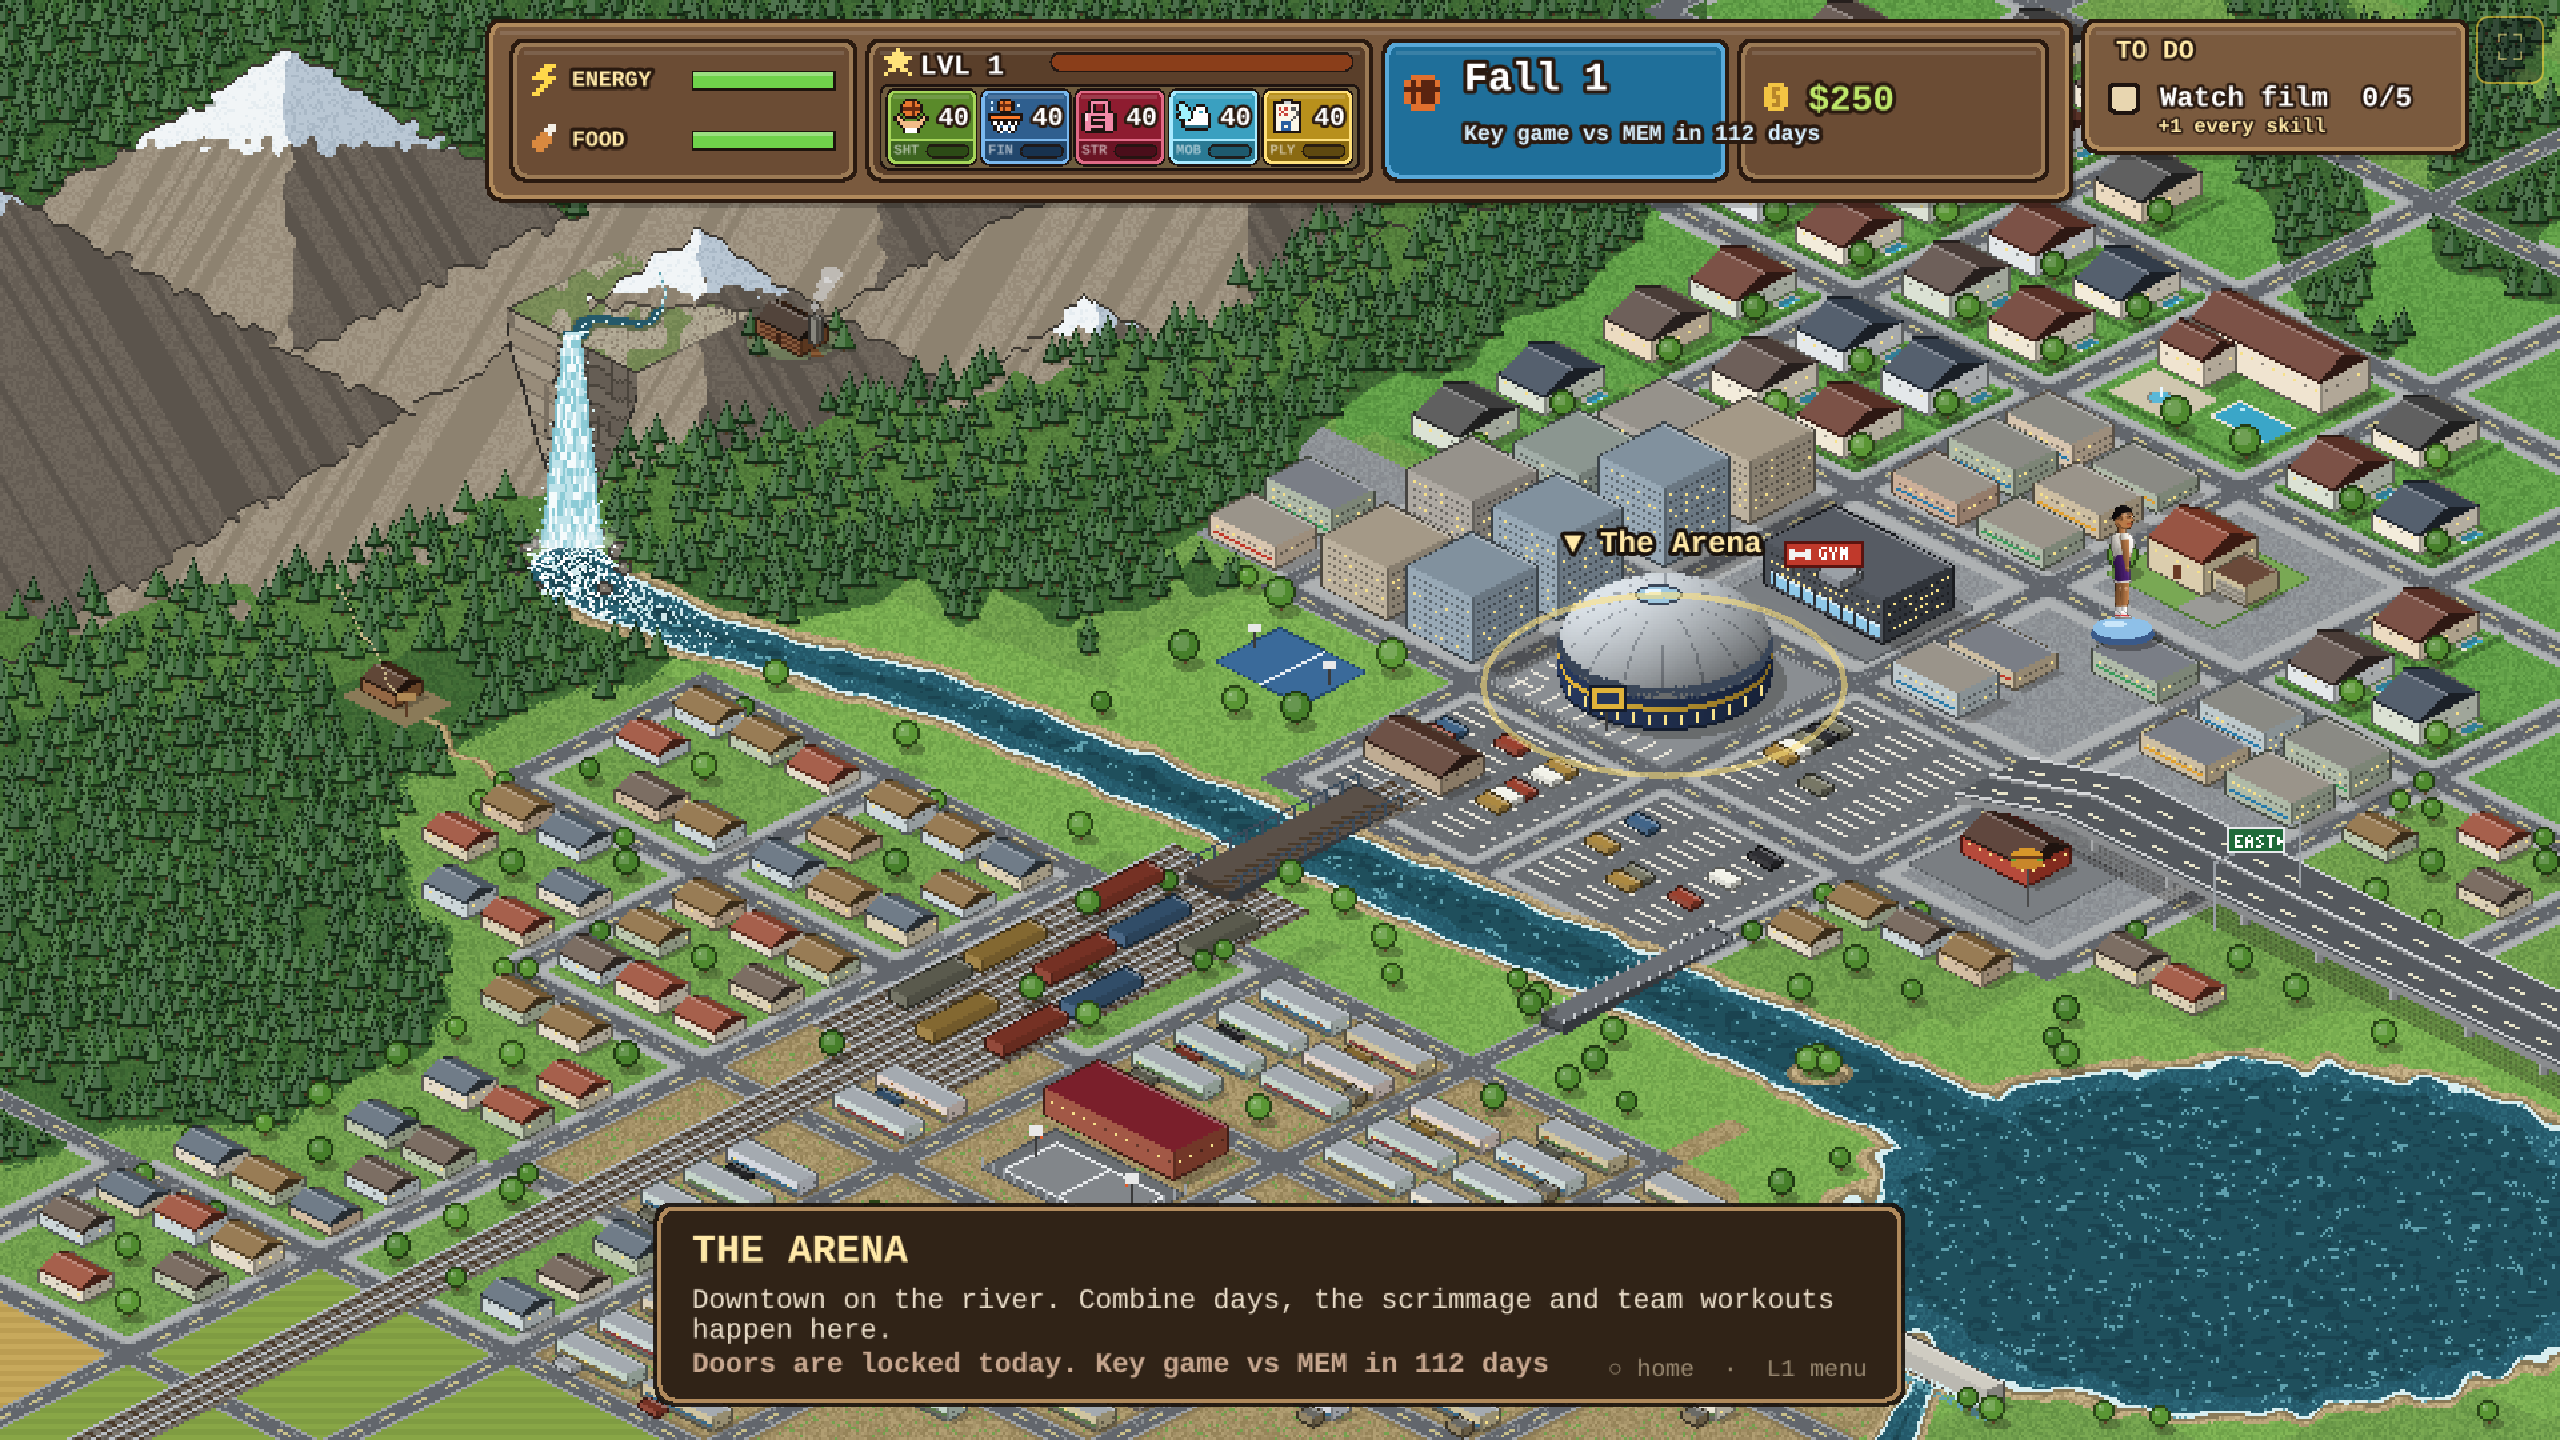
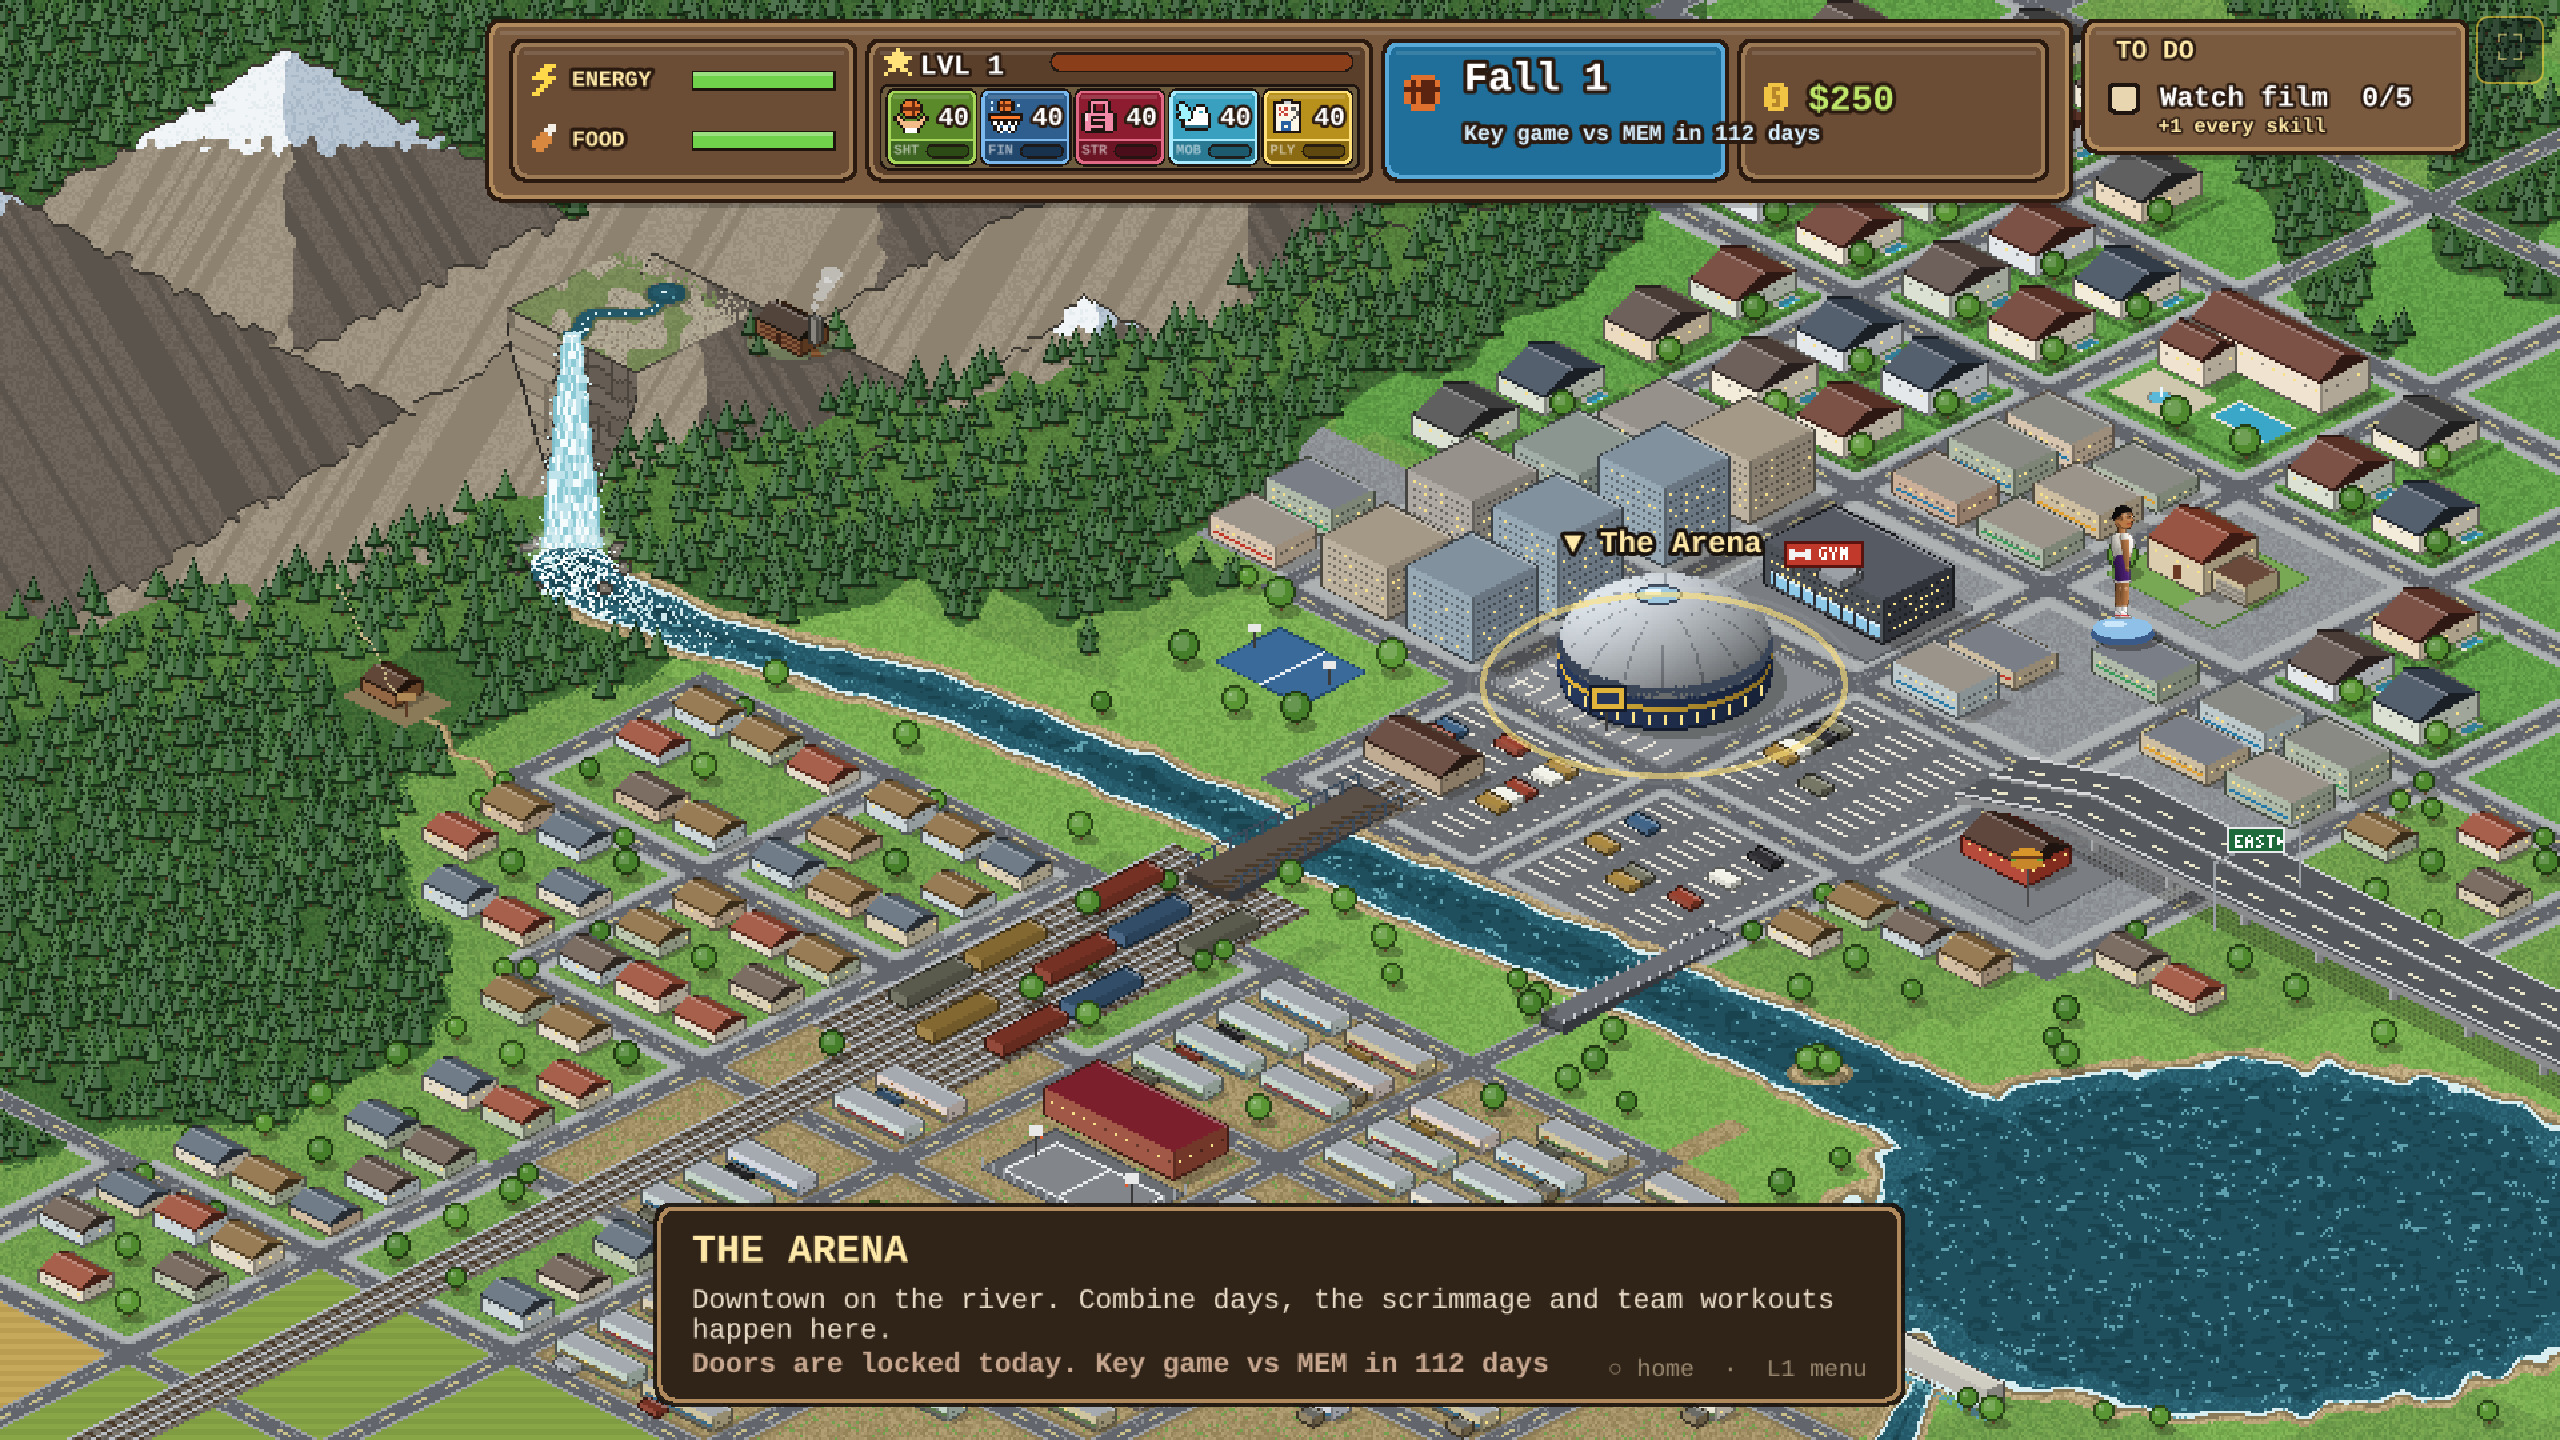
Round 104: flatten the peak on the plateau
The small snowy peak behind the waterfall's shelf is cut off flat along the shelf's back edge, so the
plateau is flat with a straight ridge behind it; the creek now rises from a spring pool on the shelf.

Claude-Session: https://claude.ai/code/session_01CcgHT1pqBqfrX5GZbFhXLS

Changed region(s): [[0.1875, 0.1562, 0.3125, 0.4062], [0.3125, 0.2188, 0.375, 0.2812]]

diff --git a/src/render/cityArt.ts b/src/render/cityArt.ts
@@ -51,16 +51,13 @@ const LIP = { x: 214, y: 127, w: 3.2 };
  * slope; under the rim a sheer cliff hangs down to the plunge pool, tallest behind the falls, tapering into the flank.
  */
 const SHELF = { f0: { x: 190, y: 115 }, f1: { x: 238, y: 139 }, back: { x: 48, y: -24 } }; // round 103: deeper (was 28, -14)
-/** Round 103: the small snowy peak the shelf runs back to: its summit stays standing on the shelf. */
-let SHELF_PEAK = -1;
-/** Is this pixel the peak's summit (snowcap and the rock just under it), in front of the shelf? */
-function peakOnShelf(x: number, y: number): boolean {
-  if (SHELF_PEAK < 0) SHELF_PEAK = PEAKS.findIndex((q) => q.x === 262 && q.y === 86);
-  const p = PEAKS[SHELF_PEAK];
-  return peakAt(x, y) === SHELF_PEAK && y < p.y + p.snow + 6 + (vnoise(x, 0, 5, 89) - 0.5) * 4;
-}
-/** Where the creek starts on the shelf (fed by the trickle off the peak's snow above it). */
-const CREEK_SRC = { x: 248, y: 116 };
+/**
+ * Round 104 (owner: "flatten the peak on the plateau, no snowy peak"): the small peak behind the shelf is cut off
+ * flat along the shelf's back edge (continued across its width): a mesa whose top is the plateau.
+ */
+const mesaY = (x: number) => SHELF.f0.y + SHELF.back.y + (x - SHELF.f0.x - SHELF.back.x) / 2;
+/** Where the creek starts: a little spring pool at the back of the shelf. */
+const CREEK_SRC = { x: 250, y: 110 };
 /** The rim (the cliff's top edge) at x, art px. */
 const rimY = (x: number) => SHELF.f0.y + (x - SHELF.f0.x) / 2;
 /** How far the cliff hangs below the rim at x (full height behind the falls, a short step at its ends). */
@@ -141,7 +138,7 @@ const PEAKS = [
   { x: 330, y: 22, s: 0.5, snow: 16 }, { x: 470, y: 30, s: 0.55, snow: 12 }, { x: 600, y: 8, s: 0.6, snow: 14 },
   { x: -24, y: 58, s: 0.55, snow: 18 },
   { x: 108, y: 18, s: 0.6, snow: 36 },
-  { x: 262, y: 86, s: 0.62, snow: 22 },
+  { x: 262, y: 86, s: 0.62, snow: 0, mesa: true }, // round 104: cut flat at the plateau (was snow 22)
   { x: 410, y: 110, s: 0.7, snow: 12 },
   { x: 520, y: 80, s: 0.95, snow: 0 },
 ];
@@ -152,7 +149,7 @@ function peakAt(x: number, y: number): number {
   let best = -1, by = -Infinity;
   for (let i = 0; i < PEAKS.length; i++) {
     const p = PEAKS[i], jag = (vnoise(x, y, 5, 20 + i) - 0.5) * 7;
-    if (y >= p.y + Math.abs(x - p.x) * p.s + jag && p.y > by) { best = i; by = p.y; }
+    if (y >= p.y + Math.abs(x - p.x) * p.s + jag && p.y > by && !('mesa' in p && y < mesaY(x))) { best = i; by = p.y; }
   }
   return best;
 }
@@ -572,8 +569,7 @@ function paintShelf(c: C) {
   // the shelf's flat top: weathered pale rock and alpine grass, no gully streaks (it reads level)
   const xs = [f0.x, f1.x, f0.x + back.x, f1.x + back.x], ys = [f0.y, f1.y, f0.y + back.y, f1.y + back.y];
   for (let y = Math.min(...ys); y <= Math.max(...ys); y++) for (let x = Math.min(...xs); x <= Math.max(...xs); x++) {
-    if (!onShelf(x, y) || peakOnShelf(x, y)) continue;
-    if (peakOnShelf(x, y - 1)) { P(c, x, y, '#4a443c'); continue; } // a dark seam where the peak meets the flat top
+    if (!onShelf(x, y)) continue;
     const n = hn(x, y, 97), g = vnoise(x, y, 7, 98), bk = shelfBack(x, y);
     if (bk > 0.75 && hn(x, y, 90) < (bk - 0.75) * 4) continue; // the back rows dither into the slope
     P(c, x, y, g > 0.55 ? (n < 0.5 ? '#7d8f5a' : '#728552') : n < 0.15 ? '#8d8270' : n < 0.6 ? '#a8a08c' : '#b3ab96');
@@ -584,20 +580,27 @@ function paintShelf(c: C) {
   for (let k = 0; k <= 48; k++) {
     const t = k / 48, l = { x: f0.x + back.x * t, y: f0.y + back.y * t }, r = { x: f1.x + back.x * t, y: f1.y + back.y * t };
     c.globalAlpha = Math.max(0, 1 - t * 1.4);
-    if (!peakOnShelf(Math.round(l.x), Math.round(l.y))) P(c, Math.round(l.x), Math.round(l.y), COL.rockOL);
-    if (!peakOnShelf(Math.round(r.x), Math.round(r.y))) P(c, Math.round(r.x), Math.round(r.y), COL.rockOL);
+    P(c, Math.round(l.x), Math.round(l.y), COL.rockOL); P(c, Math.round(r.x), Math.round(r.y), COL.rockOL);
   }
   c.globalAlpha = 1;
   // the melt off the snow above: a thin broken cascade down to the back of the shelf
-  for (let y = CREEK_SRC.y - 14; y < CREEK_SRC.y; y++) { const x = CREEK_SRC.x + Math.round(Math.sin(y / 2.4) * 0.8); P(c, x, y, y % 3 ? '#d8eef0' : COL.glint); }
   // the creek across the shelf: banks first, then the water, widening to the lip
-  const path = creekPath();
+  const path = creekPath(), sp = CREEK_SRC;
+  fillEllipse(c, sp.x, sp.y + 0.5, 9, 4.8, '#5f6a4a'); // the spring's bank (its water goes on after the creek)
   for (const p of path) fillEllipse(c, p.x, p.y + 0.5, p.w + 1.6, (p.w + 1.6) / 2 + 0.4, '#5f6a4a');
   for (const p of path) fillEllipse(c, p.x, p.y, p.w + 0.4, (p.w + 0.4) / 2 + 0.3, COL.water[1]);
   path.forEach((p, k) => {
     if (k % 7 === 0) P(c, Math.round(p.x - 0.5), Math.round(p.y), '#d8eef0');
     if (k > 66) P(c, Math.round(p.x + (hn(k, 0, 99) - 0.5) * p.w * 1.6), Math.round(p.y), hn(k, 1, 99) < 0.5 ? '#f4fbfc' : '#bfe3ea'); // white water at the lip
   });
+  // round 104: the spring the creek rises from: a little pool with a ring of stones and a ripple
+  fillEllipse(c, sp.x, sp.y, 7.5, 3.8, COL.water[0]); fillEllipse(c, sp.x - 1, sp.y - 0.5, 5, 2.2, COL.water[1]);
+  P(c, sp.x - 2, sp.y - 1, '#d8eef0'); P(c, sp.x - 1, sp.y - 1, '#d8eef0'); P(c, sp.x + 2, sp.y + 1, COL.glint);
+  for (let k = 0; k < 7; k++) {
+    if (k === 4) continue; // the outlet
+    const a = Math.PI * (0.15 + k * 0.27), x = Math.round(sp.x + Math.cos(a) * 9), y = Math.round(sp.y - 0.5 - Math.sin(a) * 4.6);
+    P(c, x, y, '#8d8270'); P(c, x + 1, y, '#6e665c');
+  }
 }
 
 // ---------------------------------------------------------------- buildings + trees
@@ -1157,7 +1160,7 @@ export function drawCityCanvas(): HTMLCanvasElement {
   return cv;
 }
 
-export const CITY_BG = 'city_bg_v10';
+export const CITY_BG = 'city_bg_v11';
 /** Where each baked sprite sits on the map (art px), kept with the textures. */
 const OFFSETS = new Map<string, { x: number; y: number }>();
 /** The map's textures (built once, kept across visits): the background, one per place, the falls (3 frames). */
@@ -1169,12 +1172,12 @@ export function buildCityArt(tm: Phaser.Textures.TextureManager): { places: Reco
   }
   const places = {} as Record<PlaceId, { key: string; x: number; y: number }>;
   for (const p of PLACES) {
-    const key = `city_${p.id}_v10`;
+    const key = `city_${p.id}_v11`;
     // round 98: the places are part of the background now; this sprite only gives the scene its bounds (the name tag)
     if (!tm.exists(key) || !OFFSETS.has(key)) { const b = bake(tm, key, 1, (c) => { PLACE_ART[p.id](c, 'ground'); PLACE_ART[p.id](c, 'raised'); }); OFFSETS.set(key, { x: b.x, y: b.y }); }
     places[p.id] = { key, ...OFFSETS.get(key)! };
   }
-  const fk = 'city_falls_v10';
+  const fk = 'city_falls_v11';
   if (!tm.exists(fk) || !OFFSETS.has(fk)) { const b = bake(tm, fk, 3, drawFalls); OFFSETS.set(fk, { x: b.x, y: b.y }); }
   const falls = { key: fk, ...OFFSETS.get(fk)! };
   return { places, falls };

diff --git a/docs/HISTORY.md b/docs/HISTORY.md
@@ -134,6 +134,7 @@ committed, pushed to `main`, and the browser link republished.
 | 101 | `181b927` | You could walk around (and Esc / ✕ worked) with the TV's film list or report open; TV options ran out of the box | `AgentTalk` keeps the room busy for what a last choice opens; `StoryBox` scrolls long choice lists (▲ / ▼, count) |
 | 102 | `c5d10bc` | The creek was a flat line drawn down the angular mountain | A flat shelf the creek crosses, a sheer cliff under its rim the falls drop off (`SHELF`, `paintShelf`); textures `_v9` |
 | 103 | `09a6a83` | The plateau was only a thin ledge | `SHELF.back` deeper, the small peak stands on it (`peakOnShelf`), creek from `CREEK_SRC`; textures `_v10` |
+| 104 | `pending` | A snowy peak stood on the plateau | The peak is cut flat at the shelf's back edge (`mesaY`), no snow; a spring pool feeds the creek; textures `_v11` |
 | 97 | `cfb3c97` | Roads that go nowhere: cut them off (owner's drawing), get rid of that kind of road; a trail from the trailhead to the street | `cityArt.ts` `roadKept` / `builtBlock` (memoized), cut streets painted as their surroundings, sidewalks only along kept streets, no park paths, `trail` / `paintTrail`, textures `_v4` |
 | 96 | `75e404f` | The top two's designs from two pictures should always be how they look (hair colour, wristbands, everything) | `draftClass.TOP_LOOKS` full `Appearance`s, `prospectLook` returns them pinned; round 88 test checks every save |
 | 95 | `a7bb108` | Cabin further up the mountain; houses in forest terrain; water under the waterfall joining the river; buildings showing under the arena / burger / gym lots; no floating selected building | `cityArt.ts`: `PLACE_LOT` footprints in `nearPlace`, `land()` checks `zoneAt` != forest, `paintMountain` and the gorge skip water, bigger pool + river head, lighter mist, cabin ledge; `city.ts` cabin anchor; CityScene no bob |

diff --git a/docs/DECISIONS.md b/docs/DECISIONS.md
@@ -188,6 +188,9 @@ Chronological. "Superseded" marks decisions later changed by the owner.
   - Draft week this round = **calendar + talk only** (owner); the combine, scrimmage and draft come later. Later the
     story reveals Hale made the generator fail, and you choose to fire or keep him.
   - Newspaper photo: headroom above tall hair, only the jersey and the wall are dithered (hair and face stay clean).
+- **Round 104 (owner): no snowy peak on the plateau.** The small peak behind the shelf is cut off flat along the
+  shelf's back edge (a mesa: its top is the plateau, a straight ridge line behind it), with no snow. The creek rises
+  from a little spring pool at the back of the shelf instead of snowmelt.
 - **Round 103 (owner): the plateau reaches further back** (about 1.7x deeper), back to the foot of the small snowy
   peak, which stands on it; the creek starts under that peak's snow and crosses the whole shelf to the same lip.
 - **Round 102 (owner): the falls drop off a plateau.** The mountains are angular, so the creek doesn't run as a line

diff --git a/docs/STATUS.md b/docs/STATUS.md
@@ -261,6 +261,8 @@ options, result screen with rematch), **Career** (hub, level up, perk trees, ult
   'ones' = every node in `NODES`.
   Round 60e: `GameSim.settle(dt)` (after the final whistle: land, idle, velocities out, ball to the floor; GameScene
   calls it every frame while `over`); StoryRun waits 1.3 s before the 1s goodbye; trailer pieces `_v3`.
+  Round 104: the (262, 86) peak is `mesa: true` (snow 0): `peakAt` ignores it above `mesaY` (the shelf's back edge
+  line); `peakOnShelf` removed; the creek starts at a spring pool (`CREEK_SRC`); textures `_v11`.
   Round 103: `SHELF.back` (48, -24); `peakOnShelf` keeps the (262, 86) peak's summit over the shelf (seam under it);
   `CREEK_SRC`; textures `_v10`.
   Round 102: `cityArt.ts` `SHELF` (`rimY`, `cliffH`, `inCliff`, `onShelf`, `shelfBack`, `creekPath`) and
